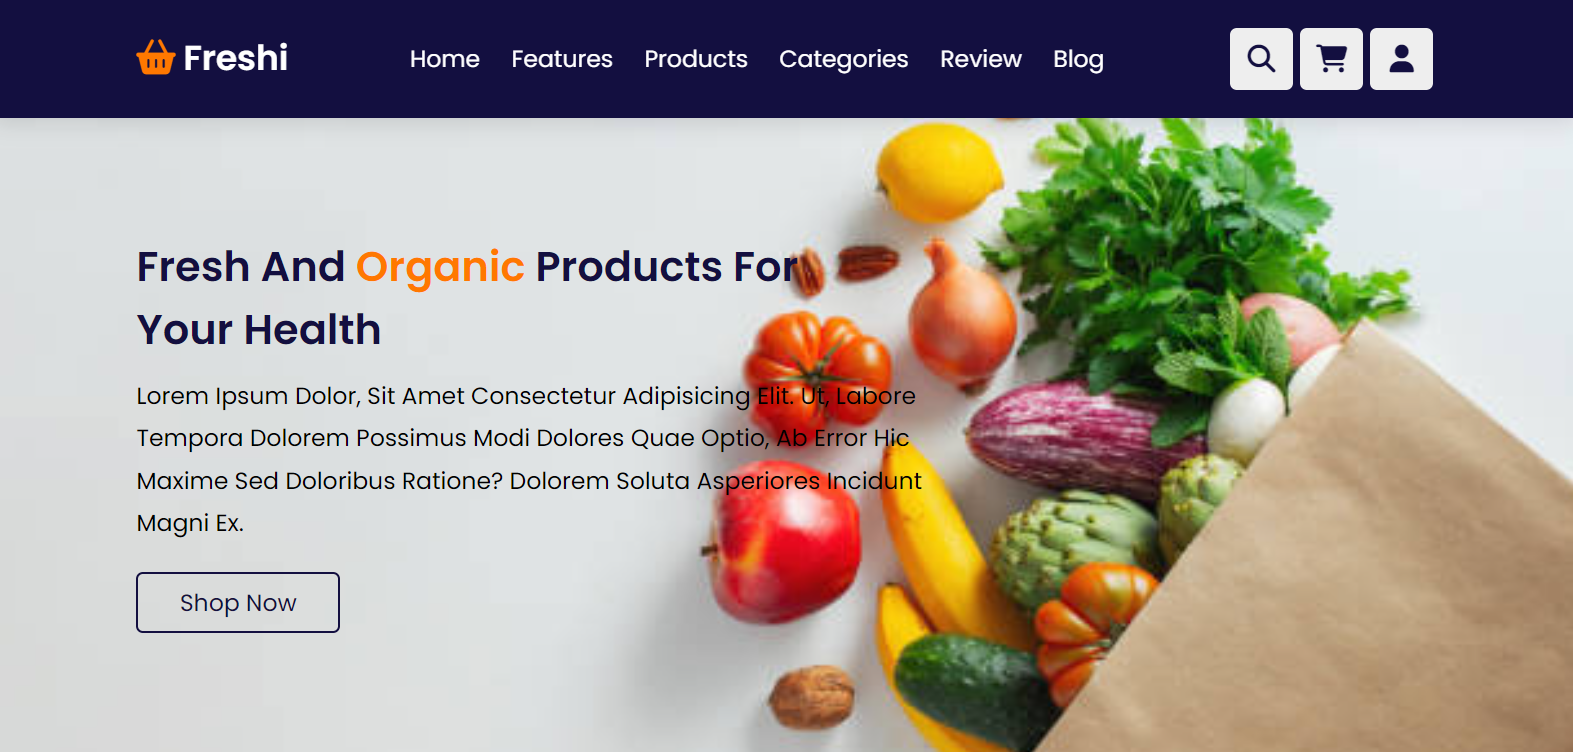
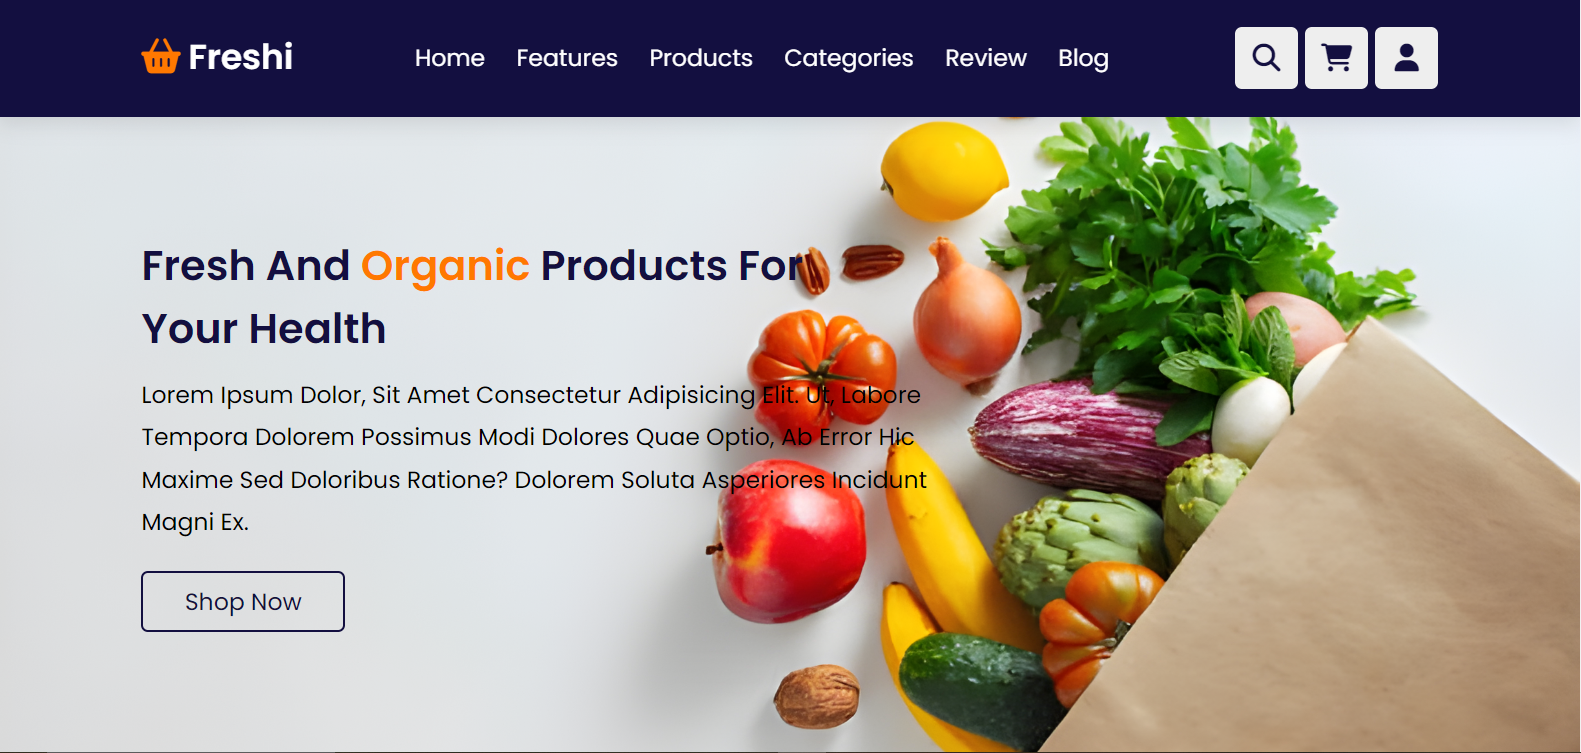
refactor

diff --git a/FreshiLandingPage/styles.css b/FreshiLandingPage/styles.css
@@ -331,7 +331,7 @@ input[type="submit"] {
 .home {
     display: flex;
     align-items: center;
-    background: url("./images/banner.jpg") no-repeat center center / cover;
+    background: url("./images/banner.png") no-repeat center center / cover;
     padding-block-start: 17rem;
     padding-block-end: 10rem;
 }
@@ -725,7 +725,8 @@ input[type="submit"] {
 }
 
 .footer .credit {
-    text-align: center;
+    align-self: center;
+    /* text-align: center; */
     margin-block-start: 2rem;
     padding: 1rem;
     padding-block-start: 2.5rem;
@@ -801,9 +802,5 @@ input[type="submit"] {
 
     .heading {
         font-size: 2.5rem;
-    }
-
-    .footer {
-        text-align: center;
     }
 }
